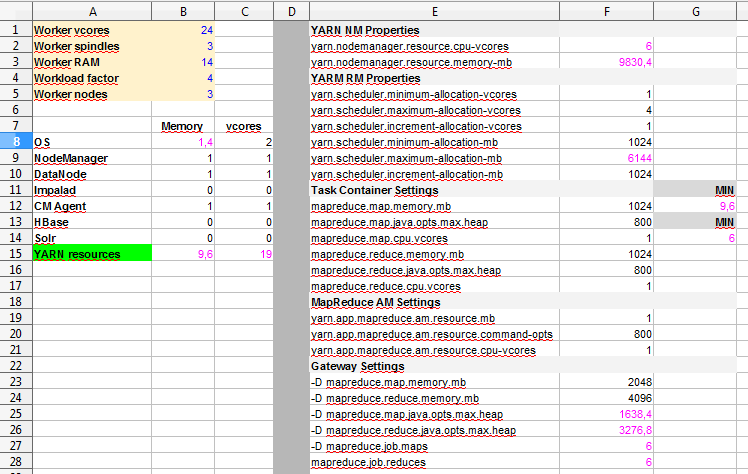
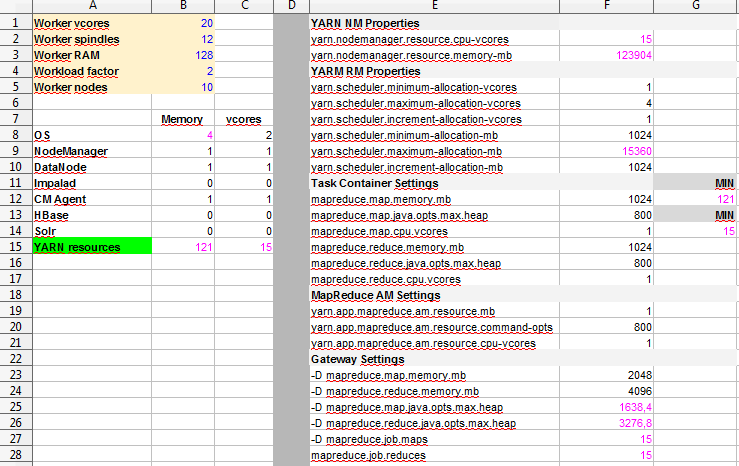
resources labs: fixed results in first and last lab

diff --git a/resources/labs/3_YARNtest.sh.md b/resources/labs/3_YARNtest.sh.md
@@ -1,0 +1,48 @@
+#!/bin/sh
+# Confirm the path values given below correspond to your installation
+
+MR=/opt/cloudera/parcels/CDH/lib/hadoop-0.20-mapreduce
+HADOOP=/opt/cloudera/parcels/CDH/bin
+
+# Mark start of the loop
+echo Testing loop started on `date`
+
+# Mapper containers
+for i in 8    
+do
+   # Reducer containers
+   for j in 1 
+   do                 
+      # Container memory
+      for k in 512 1024 
+      do                         
+         # Set mapper JVM heap 
+         MAP_MB=`echo "($k*0.8)/1" | bc` 
+
+         # Set reducer JVM heap 
+         RED_MB=`echo "($k*0.8)/1" | bc`
+        echo `date`" - TeraGen,  Mappers: $i, Reducers: $j, Container Memory: $k"
+
+        time ${HADOOP}/hadoop jar ${MR}/hadoop-examples.jar teragen \
+                     -Dmapreduce.job.maps=$i \
+                     -Dmapreduce.map.memory.mb=$k \
+                     -Dmapreduce.map.java.opts.max.heap=$MAP_MB \
+                     51200000 results/tg-10GB-${i}-${j}-${k} 1>tera_${i}_${j}_${k}.out 2>tera_${i}_${j}_${k}.err                       
+       echo `date`" - TeraSort,  Mappers: $i, Reducers: $j, Container Memory: $k"
+       time ${HADOOP}/hadoop jar $MR/hadoop-examples.jar terasort \
+                     -Dmapreduce.job.maps=$i \
+                     -Dmapreduce.job.reduces=$j \
+                     -Dmapreduce.map.memory.mb=$k \
+                     -Dmapreduce.map.java.opts.max.heap=$MAP_MB \
+                     -Dmapreduce.reduce.memory.mb=$k \
+                     -Dmapreduce.reduce.java.opts.max.heap=$RED_MB \
+	             results/tg-10GB-${i}-${j}-${k}  \
+                     results/ts-10GB-${i}-${j}-${k} 1>>tera_${i}_${j}_${k}.out 2>>tera_${i}_${j}_${k}.err                         
+        echo `date`" - Deleting TeraSort Suite files, Mappers: $i, Reducers: $j, Container Memory: $k"
+        time $HADOOP/hdfs dfs -rm -r -f -skipTrash /results/tg-10GB-${i}-${j}-${k}                         
+        time $HADOOP/hdfs dfs -rm -r -f -skipTrash /results/ts-10GB-${i}-${j}-${k}                 
+      done
+   done
+done
+
+echo Testing loop ended on `date`

diff --git a/resources/labs/0_YarnCalcs.md b/resources/labs/0_YarnCalcs.md
@@ -1,3 +1,3 @@
-1. I've made no adjustments to the spreadsheet, since in my case 1,4 GiB of RAM seems enough for the OS and Impalad isn't installed in the cluster yet.
+1. I only changed the RAM for the OS from 12,4 to 4 because 12 GB for the OS is a bit too much.
 
-2. The Workload Factor affects the `mapreduce.job.maps` and `mapreduce.job.reduces` Gateway Settings, and it stands for the number of single tasks (maps or reduces) that should run in one NodeManager.
+2. The Workload Factor affects the `mapreduce.job.maps` and `mapreduce.job.reduces` Gateway Settings, and it stands for the number of single tasks (maps or reduces) that should run in one NodeManager; in this case increasing it to a value higher than 2 doesn't matter since the lower bound is the number of vCPUS.

diff --git a/resources/labs/4_YARN_results.md b/resources/labs/4_YARN_results.md
@@ -1,0 +1,35 @@
+Results for YARN with 8.5GiB Memory and 10 vCPUs:
+
+TeraGen:
+--------
+
+Slowest: Mappers: `50`, Reducers: `1`, Container Memory: `1024 MiB`
+```
+real    1m10.112s
+user    0m6.537s
+sys     0m0.334s
+```
+
+Fastest: Mappers: `10`, Reducers: `5`, Container Memory: `1024 MiB`
+```
+real    0m58.044s
+user    0m6.607s
+sys     0m0.337s
+```
+
+TeraSort:
+---------
+
+Slowest: Mappers: `50`, Reducers: `1`, Container Memory: `1024 MiB`
+```
+real    2m48.811s
+user    0m8.237s
+sys     0m0.433s
+```
+
+Fastest: Mappers: `50`, Reducers: `5`, Container Memory: `1024 MiB`
+```
+real    1m54.635s
+user    0m8.275s
+sys     0m0.422s
+```
